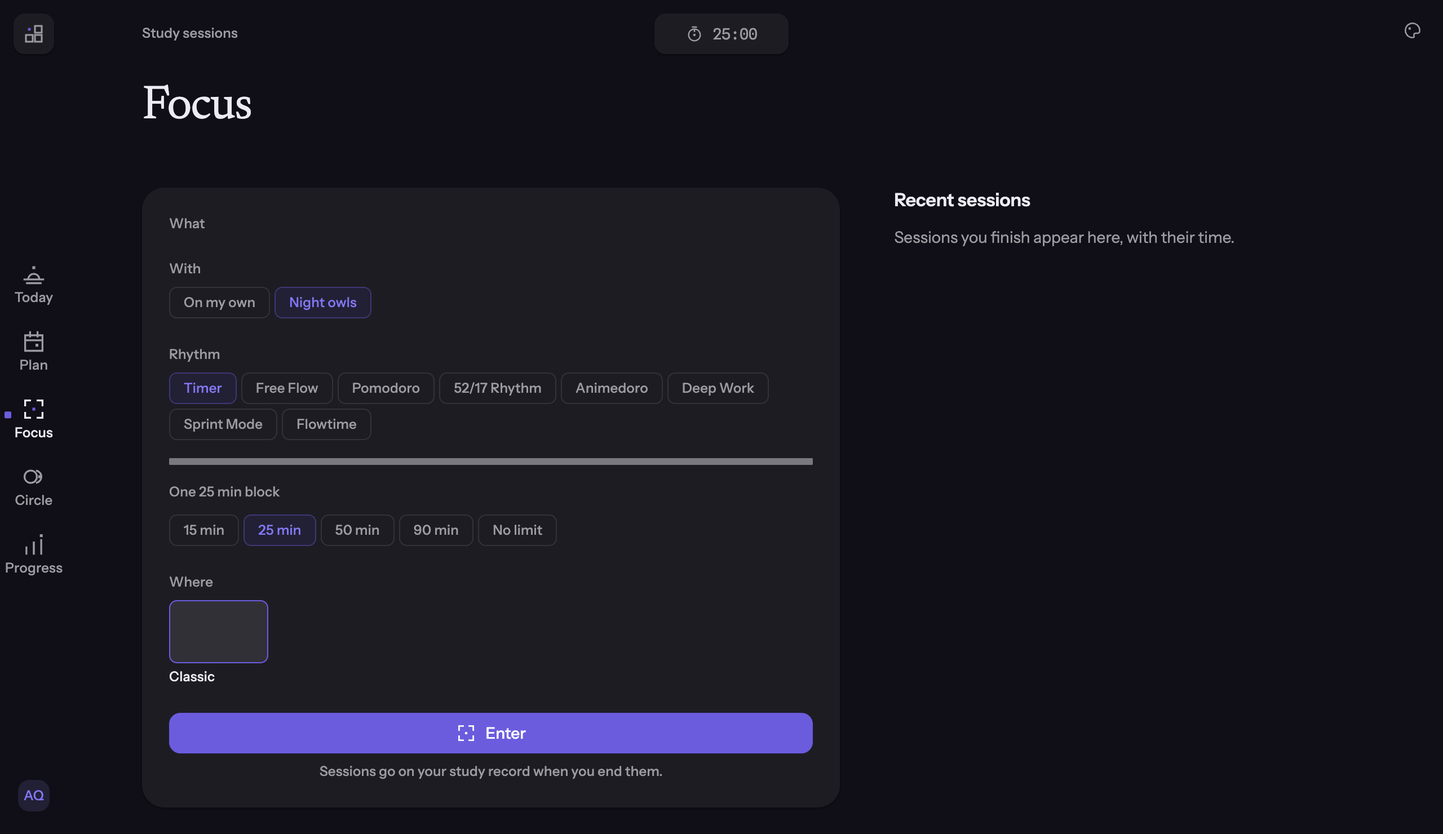
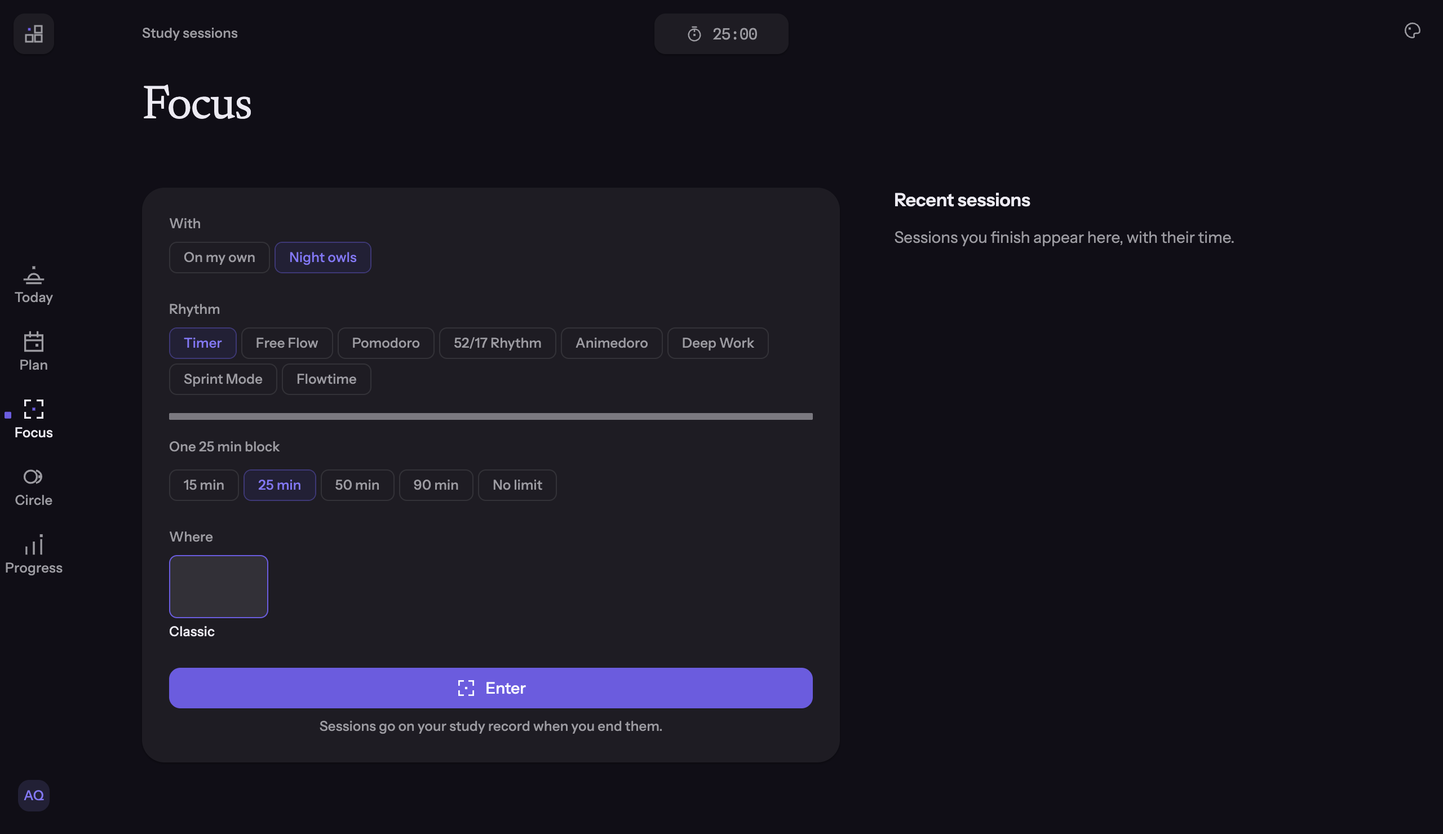
Native docs: Part 3 and 4 reports, final handoffs, tablet and deployment checklist additions, Circle guide; lint fix

diff --git a/native/apps/sylf/src/spaces/home/destinations/QuickAsk.tsx b/native/apps/sylf/src/spaces/home/destinations/QuickAsk.tsx
@@ -35,7 +35,7 @@ export function QuickAsk({ open, onClose, onLeave }: { open: boolean; onClose: (
           ) : null}
           {turn.planRequest && !turn.working ? <Button title="Review in Plans" testID="quick-ask-plan" onPress={() => { setPlanPrefill(turn.planRequest!); turn.reset(); onClose(); onLeave?.(); navigation.setView("plan", "plans"); navigation.select("plan"); }} /> : null}
           {turn.failure ? <Text variant="caption" tone="critical" testID="quick-ask-failure">{turn.failure}</Text> : null}
-          <TextField label="Ask Sylvie" hideLabel placeholder="Ask Sylvie" value={text} onChangeText={setText} editable={!turn.working} returnKeyType="send" onSubmitEditing={() => void submit()} testID="quick-ask-input" />
+          <TextField label="Ask Sylvie" hideLabel placeholder="Ask Sylvie" testID="quick-ask-input" value={text} onChangeText={setText} editable={!turn.working} returnKeyType="send" onSubmitEditing={() => void submit()} testID="quick-ask-input" />
           <Button title={turn.working ? "Sylvie is answering" : "Send"} variant="emphasis" disabled={!text.trim() || turn.working} testID="quick-ask-send" onPress={() => void submit()} />
         </Stack>
       </View>

diff --git a/native/packages/backend/integration/circle-party.integration.ts b/native/packages/backend/integration/circle-party.integration.ts
@@ -3,7 +3,7 @@
 // starts Next.js and passes SYLF_BACKEND_TEST_ORIGIN. Real HTTP, real getSession, real SQL, real settlement. This runs on Node, so it proves the
 // client's logic and contracts, and not Hermes or a device's network stack.
 import { createHash, randomBytes, randomUUID } from "node:crypto";
-import { afterAll, beforeAll, describe, expect, it } from "vitest";
+import { describe, expect, it } from "vitest";
 import { createStudySessionModel } from "@sylf/spaces";
 import { BackendError, createBackend, createBearerGateway, createPartyPresence, createSessionBridge, recentSessionsSchema, type Backend } from "../src/index";
 

diff --git a/documentation/native/reports/expansion-part-4/report.md b/documentation/native/reports/expansion-part-4/report.md
@@ -1,31 +1,64 @@
-# Expansion Part 4 report — integration, optimization and polish
+# Expansion Part 4 report — verification, integration and polish
 
-**Status: NOT performed, except for four static checks.** Written 5 November 2026 in the unattended overnight run. Part 4's slices need running software (Electron journeys, a disposable PostgreSQL, measurements, a tablet), and none was available or authorized: Docker is not running, testing was deferred by the owner until all features exist, and Part 3's features are not finished. Doing slices A, C, D or F without evidence would be inventing results, so they were not done.
+**Status: partly performed.** Run 5 November 2026 on `expansion-part-3`, on this Mac, against **disposable local PostgreSQL only** (Docker Desktop, the harness in `scripts/test/run-backend-local.mjs`). No hosted service, hosted database or real AI provider was touched, and the Samsung tablet was not used. What ran is real and passed or failed as stated below. What did not run is listed first, so nothing here can be read as more than it is.
 
-## 1. What was not run (read this first)
+## 1. What was not done (read this first)
 
-| Slice | State |
-| --- | --- |
-| A End-to-end journeys | Not run. No Electron run, no server |
-| B Security and RLS | Only the static checks in §2. No RLS audit, no Realtime test, no `securitymaxxing` reviews, no hosted queries |
-| C Database and API | Not run. No measurements, no indexes added |
-| D Client performance | Not run. No tablet |
-| E Cohesion | Not run. No copy or accessibility pass |
-| F Final run | Not run. Tablet checklist and deployment checklist **not rewritten** |
+| Item | Why | What it takes |
+| --- | --- | --- |
+| **Tablet** (Galaxy Tab S9 FE) run, cold-start time, memory sweeps, battery, TalkBack | The owner has not authorized the tablet for this stage | The rewritten [tablet checklist](../../handoffs/tablet-checklist.md) §Expansion Part 3, with the owner's go-ahead. Needs a prebuild for the three new native modules |
+| **Hosted** read-only checks (RLS, indexes, grants, Planner flags) | The Vercel connector needs the owner to approve team access, and the database queries are owner-only | The owner runs the deployment checklist's read-only section |
+| **Planner V2 beyond "not enabled"** (create, authorize, watch, answer, confirm) | The flags, a worker and a provider key are off locally, and no paid provider call was allowed. The client is covered by unit tests only | Flags on with a fixture provider, or an approved real run with a spend |
+| **Slice A journeys 1–8 as written** (new student, a hard week, all seven modes, deletion, etc.) | The Part 2 era Electron scripts `home-check.mjs` and `journey-check.mjs` (`first`, `second`) are **stale** against Part 2's onboarding and Focus redesign. Selectors were updated where cheap, and a new `live` stage covers Part 3's screens | Rewrite those two scripts against the current UI |
+| **Slice C** route measurement on the realistic seed, indexes | Not run: it needs the 2,001-person seed and `measure-routes`, and nothing new reads more than a bounded page | Run `test-backend-postgres.mjs --measure` |
+| **Slice D** measured performance | Needs the tablet. Only bundle structure was checked (below) | Tablet run |
+| **Slice E** `design:accessibility-review`, TalkBack, `design:ux-copy` | Not run | Owner or a later pass |
+| `securitymaxxing:llm`, `:deps`, `:diff` skills | Not run. Manual review and the RLS audit stand in (§3) | Run them on the final commit |
+| Root live-database tests and mobile boundary | See §2 | Start a local Postgres and build `mobile/` |
 
-## 2. Static checks that ran (HEAD of `expansion-part-3`)
+## 2. What ran, and the results
 
 | Check | Result |
 | --- | --- |
-| `npm run typecheck` in `native/` | Clean |
-| `check-boundaries.mjs` | 306 files, no violations |
-| Secret-pattern scan of tracked `native/` files (API-key, JWT, AWS key shapes) | No matches |
-| Token/password in `console.*` calls under `native/packages` and `native/apps` | No matches |
-| Routes with a rate-limit call under `app/api` | 17 of 159 `route.ts` files reference one (Part 1 counted 14 of 155). The 53 unlimited writing routes remain open |
-| Sample data gating | `DEV_TOOLS` is referenced in the shell and each Space's data index, as designed. Not proved by building without it |
+| Native typecheck, ESLint (whole package), boundary audit (322 files), single-copy check | Clean |
+| Native unit tests (`npm run test`) | **572 passed**, 1 skipped, 41 files. Includes new party, presence, Realtime, planner, maths and rich-text tests |
+| **Real-server integration** (`--native-checks`) | **33 of 33 passed**, 24 of them existing and 9 new two-account tests: friends, messages with a third account refused, block with a blocker-only list (S-15), group manager handover (A-28), party create and invite, room seating and mirroring, **one study session for a party session and a clean room exit**, a stranger refused entry, leader leaving |
+| Electron `backend-check` against the server | **39 of 39 passed** |
+| **Live Electron check** (new `live` stage of `journey-check.mjs`, real window, real server, a second person acting through the API) | **21 of 21 passed**, no console errors: sign-up, friend request answered, party created and invited, room lists both people, Study together to Focus, the environment shows the room strip, the server seats the person as focusing, the record is a party session, ending leaves the room, exactly one study session recorded, Quick ask answered by the real route, Plans says plainly that AI plans are off, Blocked list and Unblock, no sample content |
+| Root `tsc --noEmit` | Clean |
+| Root ESLint on changed API files and security tests | 42 `no-explicit-any` errors, all in files that already had them (`conversations` routes, three older security tests). None added |
+| Root tests (`vitest run`, 417 files) | **4,506 passed, 8 failed, 300 skipped.** The 8 are environmental, not regressions: 4 live-database tests (`focus-backgrounds-cascade-triggers`, no Postgres on port 5432, so nothing was reached), 3 mobile-boundary tests (`mobile/dist` not built), and `notes/ink` (the known 60 s timeout under full-suite load). The worktree has no `.env`, so no hosted database could be contacted |
+| New root security tests (S-15, A-28, blocked list own-only) | 9 of 9 passed |
+| **RLS audit** (`test-rls-audit-postgres.mjs`, extended) | Passed: 73 tables, all with RLS, none reachable by `anon`, no definer function executable by `anon`, direct economy writes denied. **New probe:** with the grants Realtime needs, an outsider sees 0 rows of a conversation's messages and both participants see 1 |
+| Production-style web export (`build:web`) | Passes. The entry chunk is 2.4 MB (React Native Web and the shell); Realtime lives in the lazy backend chunk, the pickers in shared lazy chunks |
+| Secret scan of tracked Native files and the new route and migration | No matches |
 
-These are greps, not audits. They do not replace Slice B.
+Evidence is in [`evidence/`](evidence/): `native-integration.json`, `electron-backend-check.json`, `rls-audit.json`, `journey-live.json`, and the `live-*.png` screenshots (request, people, party room, Focus with the party chosen, the environment with the room, Blocked, Quick ask, Plans off).
 
-## 3. Needs the owner
+## 3. Findings
 
-All of Part 3's open items (see the [Part 3 handoff](../../handoffs/expansion-part-3.md)), plus: start Docker Desktop, finish Part 3's remaining features, then authorize the verification run and the tablet.
+**Fixed in this part**
+
+| Where | Finding | Fix |
+| --- | --- | --- |
+| Native client | Leaving a party called the leader-removal route; the party state schema did not match the server | Rewritten to the real routes and shapes, found by the integration run |
+| Native client | A repeated room action answers without a `sessionId`, and the schema rejected it | Optional, with `enter` to learn it, found by the integration run |
+| Blocked sheet | A block made elsewhere showed as an empty list for up to 30 s | Refreshes on open, found by the live check |
+| Focus environment | The web wake lock rejected when the environment closed before it was granted (unhandled rejection) | Both ends caught, found by the live check |
+| Focus page | A "What" heading with nothing under it when an account has no subjects | Hidden when empty, found by reading a screenshot |
+| Tests (Part 2 era) | Two bridge tests counted the presence heartbeat as a session POST; a restore test assumed no request at start; three horizontal scroll views lacked `keyboardShouldPersistTaps`; `home-check` and `journey-check` used removed test IDs | Fixed or updated; the two Electron scripts still need a rewrite |
+
+**Open, for the owner**
+
+| ID | Finding | Severity | Decision |
+| --- | --- | --- | --- |
+| R-1 | **Realtime for messages needs grants that the history does not give.** On a database built from the migrations, `authenticated` has no `SELECT` on `Message` or `ConversationParticipant`, so Realtime delivers nothing and Native polls. With the grants, strict RLS holds (probed) | Low (a degradation, not a leak) | Grant them and apply the new publication migration, or leave Realtime off |
+| R-2 | The server does not refuse a solo session beside a party session (A-22); only Native does | Low | Optional server rule |
+| R-3 | 53 writing routes still have no rate limit (Part 1's count, unchanged by this part) | Medium | Slice B follow-up |
+| R-4 | `home-check.mjs` fails at its window-size matrix and `journey-check.mjs` `first`/`second` fail at Focus's old Begin button | Process | Rewrite against the current UI |
+| R-5 | Planner V2 behaviour and educational quality are unverified live | Product | E-6 |
+| R-6 | `npm audit` reports a `deepmerge` and `glob` advisory in Expo's build tooling (`@expo/config`, `@expo/cli`). It was present before this part and is not in the shipped app | Low | Update Expo when the SDK allows |
+
+## 4. Needs the owner
+
+See the [expansion handoff](../../handoffs/expansion.md): the tablet go-ahead, the hosted checks (E-6, RLS, grants), the Realtime grant decision, and a rewrite of the two stale Electron scripts.

diff --git a/documentation/native/circle/README.md b/documentation/native/circle/README.md
@@ -1,26 +1,40 @@
 # Circle on Sylf Native
 
-Home's fourth destination, for people. Three views chosen with `SubNav`: **People**, **Messages**, **Parties**. Built in [Part 3](../expansion/part-3-social-sylvie-planner.md) slices C and D. Source wins over this page.
+Home's fourth destination, for people. Three views chosen with `SubNav`: **People**, **Messages**, **Parties**, plus two sheets on the page header: **Notifications** and **Blocked**. Built in [Part 3](../expansion/part-3-social-sylvie-planner.md) slices C and D, verified on a real server in [Part 4](../reports/expansion-part-4/report.md). Source wins over this page.
 
 | View | Does | Reads and writes |
 | --- | --- | --- |
 | People | The ring and list of friends, requests, **Find people** (search, send a request), and a sheet per friend: Message, Remove, Block. Hidden details stay hidden because the server never sends them | `friends`, `friends/requests`, `users/search`, `friends/remove`, `friends/block`, `friends/unblock` |
-| Messages | Conversations with unread, one conversation at a time, send, edit and delete your own messages, earlier messages, **New group**, rename (creator) and leave. Text only | `conversations`, `conversations/[id]` (`before`, `PATCH`), `conversations/[id]/messages` (`after`), `.../[messageId]` |
-| Parties | Invitations (join or decline), start a party, invite a friend, leave. One active party of four | `focus-party`, `focus-party/[id]`, `invite`, `invites/[id]`, `members/[memberId]` |
+| Messages | Conversations with unread, one conversation at a time, send, edit and delete your own messages, earlier messages, **New group**, rename (manager) and leave. Text only | `conversations`, `conversations/[id]` (`before`, `PATCH`), `conversations/[id]/messages` (`after`), `.../[messageId]` |
+| Parties | Invitations, start a party, invite a friend, leave, a **room panel** (who is focusing), and **Study together** | `focus-party`, `focus-party/[id]` (`GET` state, `DELETE` leave), `invite`, `invites/[id]`, `session`, `session/timer` |
+| Blocked (sheet) | The people you blocked, newest first, with **Unblock**. Refreshes each time it opens. Unblocking does not restore the friendship | `friends/blocked` (new, own blocks only), `friends/unblock` |
+| Notifications (sheet) | What the server noted, newest first. Opening does not mark anything read | `notifications` |
 
-Files: `spaces/home/destinations/CircleDestination.tsx` and `spaces/home/circle/` (`MessagesView`, `FindPeopleSheet`, `PersonSheet`, `NewGroupSheet`, `PartiesView`, `useSeen`). Reads are in `packages/backend/src/{social,party}.ts`, reached as `reads.social` and `reads.parties`.
+Files: `spaces/home/destinations/CircleDestination.tsx`, `spaces/home/circle/`, `shell/party/`. Reads live in `packages/backend/src/{social,party,party-presence,realtime}.ts`, reached as `reads.social`, `reads.parties`, and the shell's presence and Realtime objects.
+
+## Studying together (owner decision E-13)
+
+A party session is the **one** study session with a room attached ([ADR 0015](../decisions/0015-session-modes-focus-environment-and-parties.md) decisions 11 and 12). It begins on Focus like any session: the **With** chooser picks "On my own" or the party (never sticky), or **Study together** on the Parties page sets it and goes to Focus. The session's time and credit are the study session's alone, so there is no second session and no second reward.
+
+- The record carries `party {partyId, name, roomSessionId, joinedAt}`. `createPartyPresence` mirrors focusing and paused to the room and never blocks the session. If the room is out of reach, the Focus page and the environment say so, and the time still counts.
+- The exit is journaled through TimerSync's party branch at the original instants, so a crash, a lost answer or days offline replay exactly. A session that ended before its seat was learned recovers the seat first.
+- One session at a time: starting a party session while one runs (solo or in another room) asks first.
+- The room shows states only ("Focusing", "Paused", "In the party"), never a second clock, and never HP (ADR 0017).
+- Party invitations also show on Today when no session is running, and only point to Circle.
+
+## Realtime
+
+An optional nudge, off unless `EXPO_PUBLIC_SYLF_REALTIME_URL` and `EXPO_PUBLIC_SYLF_REALTIME_KEY` are set. A change event only invalidates a resource tag and the screen re-reads through REST, which applies the server's block and membership checks. It runs only signed in and in front. While "live", the 30 s polls slow to 180 s (rooms 15 s to 120 s). **Row-level security was probed:** with the grants Realtime needs, an outsider sees no message of a conversation and a participant sees it ([RLS audit](../reports/expansion-part-4/evidence/rls-audit.json)). **The grants are not in the migration history**: on a database built from it, `authenticated` holds no `SELECT` on `Message` or `ConversationParticipant`, so Realtime delivers nothing and the fallback carries on. Granting them is an owner decision (see the deployment checklist).
 
 ## Rules that hold
 
 - **Server rules stay on the server.** Who may message whom, blocks, group management and the four-member limit are the server's, and their words are shown when it refuses.
-- **No Realtime yet.** The bounded fallback is the path: a conversation or list that is on screen, in the foreground, asks every 30 seconds, and stops when it is not seen (`useDestinationSeen`). Web's 15 and 30 second background polling is not copied.
+- **Bounded fallback.** A screen that is on, in the foreground, asks at a fixed pace, and stops when it is not seen (`useDestinationSeen`). Web's background polling is not copied.
 - **A message appears once the server has it.** Nothing is sent optimistically that cannot be undone.
 - HP never appears for a friend or a party member (ADR 0017).
 
 ## Not built
 
-- The Realtime client and live presence (needs the spike in ADR 0016 on a real device and server).
-- A blocked-people list and unblocking from a list. `unblock` exists in `social.ts` with no screen.
-- Notifications list.
-- A party session (start, pause, resume, leave with replay) through the one session owner, party room in the Focus environment, and invitations in Today. Waiting on E-13.
-- Backend repairs A-28 (group manager when the creator leaves) and S-15 (`areUsersBlocked` fails closed), and the `Message` Realtime publication migration. Each needs a reproduction on disposable PostgreSQL first.
+- Companion drawing (Part 1 chose prerendered sprites; no sprite pipeline exists).
+- A presence channel (presence comes from `/api/friends` and the heartbeat).
+- Message attachments (the schema has none).

diff --git a/documentation/native/decisions/0015-session-modes-focus-environment-and-parties.md b/documentation/native/decisions/0015-session-modes-focus-environment-and-parties.md
@@ -1,6 +1,6 @@
 # ADR 0015 — One session across modes, the Focus environment and parties
 
-**Status: Accepted by the owner for decisions 1, 6 and 7, 1 November 2026, which approved the immersive Focus environment. Decisions 2 to 10, 13 and 14 were built in Expansion Part 2 (4 November 2026). Decisions 11, 12 and 15 wait for Part 3 and Part 4.** It extends [ADR 0008](0008-study-session-and-timer-dock.md) and replaces its decision 20 when built. It builds on [ADR 0012](0012-connected-app.md) and [ADR 0013](0013-expansion-stage.md). Part 2 built the session half, noted in [the Focus guide](../focus/README.md). One refinement: **decision 5 changed.** The stored record stays `v1` with optional `mode`, `modeSettings` and `phase` fields, so a session running across the upgrade continues and an older reader still opens it. A `.v2` key would have orphaned running sessions for no gain.
+**Status: Accepted by the owner for decisions 1, 6 and 7, 1 November 2026, which approved the immersive Focus environment. Decisions 2 to 10, 13 and 14 were built in Expansion Part 2 (4 November 2026). Decisions 11 and 12 were built in Expansion Part 3 (5 November 2026) under the owner's answer to E-13: party time counts through the one `StudySession`, with no second session and no second reward. Decision 15 waits for Part 4's final run.** It extends [ADR 0008](0008-study-session-and-timer-dock.md) and replaces its decision 20 when built. It builds on [ADR 0012](0012-connected-app.md) and [ADR 0013](0013-expansion-stage.md). Part 2 built the session half, noted in [the Focus guide](../focus/README.md). One refinement: **decision 5 changed.** The stored record stays `v1` with optional `mode`, `modeSettings` and `phase` fields, so a session running across the upgrade continues and an older reader still opens it. A `.v2` key would have orphaned running sessions for no gain.
 
 ## The problem
 
@@ -20,7 +20,7 @@ Native has one study session with a length. The stage adds seven timer modes wit
 | 8 | **The environment is a view of the model.** It holds no time, passes `live` correctly, and reads the same controls from `SessionParts.tsx`. | Proposed | ADR 0008 decisions 10 and 15 |
 | 9 | **Heavy resources belong to the environment's lifetime.** Its background, wake lock and any large layout are taken on entry and released on every exit path. Audio lives in one shell-level engine. | Proposed | R15, and a wake lock left on is a battery defect |
 | 10 | **Web's four layouts are not ported.** Part 1 designs Native's own. | Confirmed by the owner's brief for "do not copy" | Web is a reference for behavior only |
-| 11 | **A party session is a kind of the one active session,** marked solo or party on the record. Its time comes from the server's party state, reconciled into the same snapshot shape. Controls call acknowledged server actions. | Proposed | The server already owns party time. `TimerSync` already has the `party` branch. A second model would be a second clock with extra steps |
+| 11 | **A party session is a kind of the one active session (built, Part 3, E-13 answered yes),** marked solo or party on the record. Its time comes from the server's party state, reconciled into the same snapshot shape. Controls call acknowledged server actions. | Proposed | The server already owns party time. `TimerSync` already has the `party` branch. A second model would be a second clock with extra steps |
 | 12 | **A solo session and a party session never run together.** Joining asks first. | Proposed | One active session has always been the rule (ADR 0008 decision 4). **Part 1 proved the server doesn't enforce this,** so only Native's own behavior holds it until E-13 is settled |
 | 13 | **World's guard and the 12-hour cap apply to every kind and mode.** | Confirmed by ADR 0008 and Phase 11 | Game time is never study time, and a server clamp never bends for a client |
 | 14 | **`saved` still flips only in `settleAccepted`.** Breaks are reported, and rewards are the server's. | Confirmed by ADR 0012 | Unchanged |
@@ -38,7 +38,7 @@ Native has one study session with a length. The stage adds seven timer modes wit
 
 ## Consequences
 
-- **Party credit is open.** Part 1 read that party time banks only on `FocusSessionMember`. Decision 14 assumes nothing about it, and decision E-13 settles it before Part 3 slice D.
+- **Party credit is settled (E-13, 5 November 2026):** the study session carries the time and the credit, the room only mirrors it, and the exit is journaled through TimerSync's party branch. Originally open:  Part 1 read that party time banks only on `FocusSessionMember`. Decision 14 assumes nothing about it, and decision E-13 settles it before Part 3 slice D.
 - `lib/timer-modes.ts` touches a sensitive web file. Web's timer suites run before and after, and any change in a test's meaning stops the work (R20).
 - `SessionLength` stays for Free Flow and plain countdowns.
 - `session.test.ts`, the Session check and the journey grow.

diff --git a/documentation/native/handoffs/expansion-part-3.md b/documentation/native/handoffs/expansion-part-3.md
@@ -1,24 +1,25 @@
 # Expansion Part 3 → Part 4 handoff
 
-**Written 5 November 2026**, from the unattended overnight run on `expansion-part-3`. Read the [living Part 3 report](../reports/expansion-part-3/report.md) first (§1 lists what was not run), then the [Part 4 brief](../expansion/part-4-integration-polish.md). Source wins over prose.
+**Rewritten 5 November 2026** after the owner's second brief. Read the [Part 3 report](../reports/expansion-part-3/report.md), then the [Part 4 report](../reports/expansion-part-4/report.md). Source wins over prose.
 
 ## State
 
-- Part 3 is **built in part and entirely unverified**: no test suite, no build, no device and no server was run. Only `tsc` (native), ESLint on touched files and the boundary audit ran, and they are clean at HEAD.
-- Branch `expansion-part-3` is pushed to its own remote branch. Nothing is merged, deployed or touched on hosted services. The tablet was not used.
+Part 3 is **built and verified locally**: Native unit tests, real-server integration (33), the Electron backend check (39), a live Electron check of Circle and parties (19), root security tests, and an RLS audit with a Message Realtime probe. Not run: the tablet, any hosted service, any real AI provider. Branch `expansion-part-3` is pushed. Nothing is merged or deployed.
 
 ## Built
 
-AI Planner V2 journey in Plans; Sylvie rich text, status events, proposals with confirmation, Today briefing, quick-ask, "Review in Plans" handoff; Circle People, Messages, groups, notifications; Parties lifecycle; backend repairs S-15 and A-28. Details and paths are in the report §2.
+Everything in report §1: Planner V2 with materials upload, Sylvie (rich text, readable maths, images, proposals, insights, quick-ask on Today and in the environment), Circle (people, messages, groups, blocked list, notifications), Realtime as a nudge, parties and **study together through the one study session** (E-13), plus S-15, A-28 and `GET /api/friends/blocked`.
 
-## Not built (carry into the final verification or the next owner decision)
+## Not built
 
-Plan materials upload, maths typesetting, Sylvie images, insights/memories, companion, Sylvie inside the Focus environment, Realtime client and presence, blocked list screen, **party session through the one session owner** (needs E-13), party room, World guard for party sessions. Reasons are in the report §3.
+Companion drawing, AI memories and insight dismissal (no server API), KaTeX typesetting, a presence channel, Planner `?stream=true`, `SylvieTool` on `useSylvieTurn`. Reasons and effort in report §4.
 
-## Owner decisions open
+## Owner decisions still open
 
-E-13 (party time counts as study?), E-6 (hosted Planner flags and real provider spend), dependency approvals (file picker, KaTeX/Expo DOM, `@supabase/realtime-js`), the `Message` Realtime publication migration.
+- **E-6**: whether Planner V2 runs on the hosted server. From code it needs `PLANNER_V2_DURABLE_CORE_ENABLED` and `PLANNER_V2_STUDENT_WORKSPACE_ENABLED` both `"true"`, plus a worker and a provider key. The Vercel connector needs you to approve team access before environment variable *names* can be read. No paid provider was called.
+- **Realtime for messages** needs `SELECT` grants for `authenticated` on `Message` and `ConversationParticipant` (not in the history), the project address and key in the build, and the migration `20261105000000_native_message_realtime_publication` applied. All local-only today.
+- **Electron checks** `home-check.mjs` and the whole-student `journey-check.mjs` stages `first` and `second` are stale against Part 2's onboarding and Focus redesign (a few selectors were updated; the rest need a rewrite). The `live` stage replaces them for Part 3's screens.
 
 ## Rules that still apply
 
-Testing runs only after Part 4's features, on a disposable local backend (Docker Desktop is not running on the Mac). Stage only your own paths. HP stays off Native. No tablet without authorization.
+Disposable local backends only. Stage only your own paths. HP stays off Native. No tablet without authorization.

diff --git a/documentation/native/handoffs/expansion.md b/documentation/native/handoffs/expansion.md
@@ -1,7 +1,25 @@
 # Expansion stage handoff
 
-**Written 5 November 2026. The stage is NOT complete.** Parts 1 and 2 are done and awaiting review, Part 3 is partly built, and Part 4 was not performed (see its [report](../reports/expansion-part-4/report.md), which lists the few static checks that ran). Nothing in Parts 3 and 4 has been tested, built or run on a device. Hosted services and the tablet were never touched.
+**Written 5 November 2026.** Parts 1 to 3 are built. Part 4 was **partly performed**: everything that can run on a disposable local backend ran and passed (see its [report](../reports/expansion-part-4/report.md)); the tablet, the hosted checks, measurements and a real Planner run did not, by rule or by missing authorization. Nothing is merged or deployed, hosted data was never touched, and the branch is `expansion-part-3` (it contains Parts 2 and 3).
 
-Start with the [Part 3 handoff](expansion-part-3.md) and the [Part 3 report](../reports/expansion-part-3/report.md). Remaining work, in order: owner decisions (E-13, E-6, dependencies, Realtime publication), finish Part 3 (party session, Realtime, Sylvie images and maths, blocked list), start Docker, run the full verification on a disposable backend, then Part 4's slices A to F with measurements before changes.
+Start with the [Part 4 report](../reports/expansion-part-4/report.md) §1 (what was not done), then the [Part 3 report](../reports/expansion-part-3/report.md) and [handoff](expansion-part-3.md).
 
-**Phase 14 requirements** (Workspace now, `LIMITED_TOOLS`, G-6, G-7, G-13, how Sylvie and Focus connect to Notes) are unchanged from the [Stage 3 handoff](stage-3.md) and have not been restated, because Workspace was not re-audited this part. Do not start Phase 14 without the owner.
+## What the owner needs to decide or do
+
+1. **Authorize the tablet run** and say which build to use. The [tablet checklist](tablet-checklist.md) has a new section for everything added. Three native modules were added (`expo-document-picker`, `expo-image-picker`, `@supabase/realtime-js`), so it needs a prebuild.
+2. **E-6 and hosted checks.** Approve the Vercel team access so Planner V2's environment variable names can be read, or read them yourself (`PLANNER_V2_DURABLE_CORE_ENABLED`, `PLANNER_V2_STUDENT_WORKSPACE_ENABLED`, a worker, a provider key). Say whether a fixture-provider or a real, capped run may test the Planner journey. Run the deployment checklist's read-only queries.
+3. **Realtime for messages (R-1).** Grant `SELECT` on `Message` and `ConversationParticipant` to `authenticated` and apply `20261105000000_native_message_realtime_publication`, or leave Realtime off. Give a build `EXPO_PUBLIC_SYLF_REALTIME_URL` and `_KEY` to use it.
+4. **Rate limits (R-3)** on the remaining 53 writing routes, and the optional server rule against a solo session beside a party session (R-2).
+5. **Rewrite the two stale Electron scripts** (R-4), or retire them in favour of the `live` stage plus a new one for Part 2's screens.
+
+## Study together in one line
+
+A party session is the one study session with a room attached. Its time and credit are the session's alone (E-13 answered yes), so there is no second session or reward, and the exit is journaled and replayable. See the [Circle guide](../circle/README.md) and [ADR 0015](../decisions/0015-session-modes-focus-environment-and-parties.md).
+
+## Phase 14 requirements (restated)
+
+Unchanged from the [Stage 3 handoff](stage-3.md) and not re-audited this stage: Workspace's tools and `LIMITED_TOOLS`, G-6, G-7 and G-13, and Notes joining Sylvie and Focus when it arrives. Two additions from this stage: Sylvie's chat already carries image attachments and readable maths through `shell/rich-text` and `shell/sylvie/ChatImage`, so Notes should reuse them; and `reads.upload` plus `PickedFile` are the one way to send a chosen file. Do not start Phase 14 without the owner.
+
+## Rules that still apply
+
+Disposable local backends only. Stage only your own paths. HP stays off Native. No tablet without authorization. No deploy.

diff --git a/documentation/native/handoffs/expansion-overnight-progress.md b/documentation/native/handoffs/expansion-overnight-progress.md
@@ -64,3 +64,5 @@ Slice B remainder (planner handoff via `lib/ai/sylvie/planner-bridge.ts`, quick-
 - 2026-11-05 (owner's second brief): decisions given. **E-13 = yes, party time counts through the one StudySession and XP, no duplicate sessions or rewards.** Dependencies approved. **Realtime migration approved for local development only** (written, not applied anywhere). **E-6:** inspect deployment status only; no paid provider calls, no hosted changes. The scheduled resume had run once and only wrote stop notes (no feature work, no duplicates).
 - 2026-11-05: Part 3 features built and pushed (all typecheck/ESLint/boundaries clean; verification of them not yet run): party session via the one session (`SessionParty` on the record, `party-presence.ts` mirror, room exit through TimerSync's party journal, `RoomStrip`/`RoomMembers`, "With" chooser on Focus, Study together in Parties, switch dialog); party client rewritten to the server's real shapes (leave = `DELETE focus-party/[id]`); blocked list (`GET /api/friends/blocked`, new) + `BlockedSheet`; Realtime client as a nudge (`realtime.ts`, `@supabase/realtime-js` 2.112.4) + migration `20261105000000_native_message_realtime_publication`; plan materials upload and Sylvie image attachments (`expo-document-picker`, `expo-image-picker`, `client.upload`, `ChatImage`); readable maths (`rich-text/math.ts`, no typesetter); Today insights and party invitations; Ask Sylvie in the Focus environment. **Not built (documented):** companion drawing (Part 1 chose prerendered images; no sprite pipeline exists), AiMemory (no read API exists), KaTeX typesetter, presence channel, SylvieTool refactor onto `useSylvieTurn`.
 - NEXT: verification. Docker is up. Run native unit tests, root security tests, then `scripts/test/run-backend-local.mjs --native-checks` (integration incl. new `circle-party.integration.ts`), fix confirmed issues, then Part 4 slices, reports, handoffs.
+
+- 2026-11-05 (later): **Verification done locally and reports written.** Native unit 572 pass; integration 33/33 (9 new two-account tests: friends, messages, block/S-15, group/A-28, party, one-study-session E-13); Electron backend-check 39/39; new live Electron stage 21/21 (Circle, parties, environment room strip, Quick ask, Plans-off, Blocked); root 4506 pass / 8 env failures (no Postgres, no mobile/dist, ink timeout); RLS audit extended and passing. Defects found and fixed: party leave route and state schema, repeated room action without sessionId, Blocked staleness, wake-lock rejection, empty "What" heading, stale Part 2-era tests. Reports: `reports/expansion-part-3/report.md`, `reports/expansion-part-4/report.md`; handoffs `expansion-part-3.md`, `expansion.md`; checklists extended (tablet, deployment). **Run complete under the owner's brief; stopped after Part 4.** Not done and why: tablet (not authorized), hosted checks and E-6 status (Vercel needs team approval), Planner V2 live flow (flags/worker/provider), route measurements, a11y review, security skills, rewrite of home-check/journey-check (stale vs Part 2).

diff --git a/documentation/native/handoffs/tablet-checklist.md b/documentation/native/handoffs/tablet-checklist.md
@@ -256,3 +256,16 @@ npm run android:r15-check -- --scenario=views --minutes=6 --in-app --out=<file>
 ## Part 8. Report
 
 Add an Android section to the [Phase 13 report](../reports/phase-13/report.md), update R1, R12 and R15 in the [master plan](../master-plan.md#81-major-technical-risks), and list anything that failed before fixing it. If the owner authorized only part of this, say which part ran.
+
+---
+
+## Expansion Part 3 additions (5 November 2026, none of this has been run on the tablet)
+
+Run in portrait and landscape, on a build made after `npx expo prebuild` (three new native modules), against a **disposable** or owner-approved backend, with the owner's authorization. Everything below ran only in Electron against a local server, so Hermes, touch and the system pickers are unverified.
+
+- [ ] **Circle.** Find a person, send and answer a request, message, edit and delete, a group (create, rename, leave), Notifications, **Blocked** and Unblock. Each tap lands on the first press (the keyboard rule).
+- [ ] **Parties.** Start one, invite a friend, accept on a second device, the room panel lists both. **With** on Focus, **Study together** from Parties, the dialog when a solo session is running, the room strip in the environment, ending leaves the room, **exactly one study session** in Recent sessions. Airplane mode mid-session: the time still counts, the strip says the room will catch up, and the exit reaches the server on return. Kill and reopen mid-session: the party mark survives.
+- [ ] **Sylvie.** Streamed answer, a proposal with Apply and Not now, a stale proposal refused, **attach an image** (system picker, up to 4, 5 MB), the image shown back in the chat, readable maths in a reply, the daily note and insights on Today, Ask Sylvie inside the environment (and "Review in Plans" steps out of it without ending the session).
+- [ ] **Plan.** With Planner V2 on: details saved free, spending ceiling and consent, **add a PDF or text file** through the system picker (a 4 MB file is refused in words), watch, stop, answer, confirm. With it off: the plain "not switched on" note.
+- [ ] **Realtime** (only if the build has an address and the grants exist): a message from a second device appears without waiting 30 s, nothing arrives for a conversation you are not in, and with the app backgrounded nothing is read.
+- [ ] **Battery and heat** over a 30 minute party session with the screen on, and memory after opening the environment, Plan, and a long chat ten times.

diff --git a/documentation/native/backend/deployment-checklist.md b/documentation/native/backend/deployment-checklist.md
@@ -79,3 +79,16 @@ Additive and scanned: none drops or rewrites data. The two matches for destructi
 ## Open decisions
 
 Password reset (G-4), whether an email change needs a password (S-12), a daily ceiling on credited study (I-2), and Electron's lack of a system proxy. Details are in [Stage 3 handoff §5](../handoffs/stage-3.md#5-for-the-owner-in-order).
+
+
+## Expansion Part 3 and 4 additions (5 November 2026, nothing here has been run on a hosted service)
+
+Everything below was exercised on disposable local databases only. The owner decides each item.
+
+- [ ] **Migrations in order, additive:** `20261105000000_native_message_realtime_publication` (adds `Message` to `supabase_realtime` if that publication exists; no RLS change). Its only effect on a hosted project is that Realtime may deliver message events to a client holding a minted token.
+- [ ] **Grants for message Realtime (owner decision, not in the history):** `GRANT SELECT ON "Message", "ConversationParticipant" TO authenticated;` The existing `message_select_policy` then limits each subscriber to conversations they take part in (probed on a disposable database: an outsider sees 0 rows, a participant sees 1). Without these grants nothing breaks: Realtime delivers nothing and Native polls.
+- [ ] **New route** `GET /api/friends/blocked` (own blocks only; tested). **Changed routes:** `POST /api/conversations`, `POST /api/conversations/[id]/messages` now fail closed on a block-check error (S-15); `PATCH /api/conversations/[id]` hands a group to its longest-standing member when the creator leaves (A-28).
+- [ ] **Env for Planner V2 (E-6):** `PLANNER_V2_DURABLE_CORE_ENABLED`, `PLANNER_V2_STUDENT_WORKSPACE_ENABLED`, a worker, and a provider key. Native states plainly when they are off. Do not enable until the spend ceiling ($1.75 per student) is accepted.
+- [ ] **Env for a Native build with Realtime:** `EXPO_PUBLIC_SYLF_REALTIME_URL`, `EXPO_PUBLIC_SYLF_REALTIME_KEY` (the project address and anon key, both public values). Leave unset to stay on polling.
+- [ ] **New Native dependencies** (all in `native/`, with its lockfile): `@supabase/realtime-js` 2.112.4, `expo-document-picker`, `expo-image-picker`. The Android build needs a prebuild and the tablet run before release.
+- [ ] Rerun the whole local set on the exact commit being deployed.

diff --git a/documentation/native/expansion/feature-map.md b/documentation/native/expansion/feature-map.md
@@ -210,7 +210,7 @@ These were not in an earlier report, except where noted.
 | Realtime and presence | `realtime/token`, `usePostgresChanges`, `useRealtimePresence` | None | **Missing** | Must, Part 3 C, with a bounded fallback |
 | Focus Party: list | `focus-party` | Circle | **Partial** | Extends |
 | Create, join, leave, invite, members ✓ | `focus-party/*`. Invites answer `ACCEPTED` or `DECLINED`. Non-members refused, joining needs an invite | None | **Missing** | Must, Part 3 D |
-| Party session and room ✓ | `focus-party/[id]/session`, `session/timer` with `start`, `pause`, `resume`, `leave` | None | **Missing** | Must, Part 3 D, after decision E-13 |
+| Party session and room ✓ | `focus-party/[id]/session`, `session/timer` with `start`, `pause`, `resume`, `leave` | None | **Built (Part 3, E-13 yes)**: one study session with a room, `party-presence.ts`, `shell/party/` | Verified on a real server and in Electron (Part 4) |
 | Session invites | `invites`, `SessionInvite`, `SessionInviteToast` | None | **Missing** | Should, Part 3 D |
 
 ## 8. Sylvie
@@ -242,7 +242,7 @@ These were not in an earlier report, except where noted.
 | S-12 | **High, raised by Part 1** | Email change needs no password (U-4) | Part 2 step 0, decision E-5 |
 | A-20 | Medium | Stored image addresses (U-6) | Part 2 step 0 on approval |
 | A-21 | High if unscheduled | Server jobs (U-5) | Owner |
-| A-22 | Medium | Solo beside party, party credit (U-7) | Decision E-13, Part 3 D |
+| A-22 | Medium | Solo beside party, party credit (U-7) | **Settled**: E-13 yes, credit through the study session; Native refuses a second session (the server still allows one) |
 | A-28 | Low | A group with no creator | Part 3 C |
 | A-24 | Low | Quest edit narrower than creation | Part 2 C |
 | S-15 | Low | `areUsersBlocked` fails open on a query error. Confirmed still so | Part 3 C |
